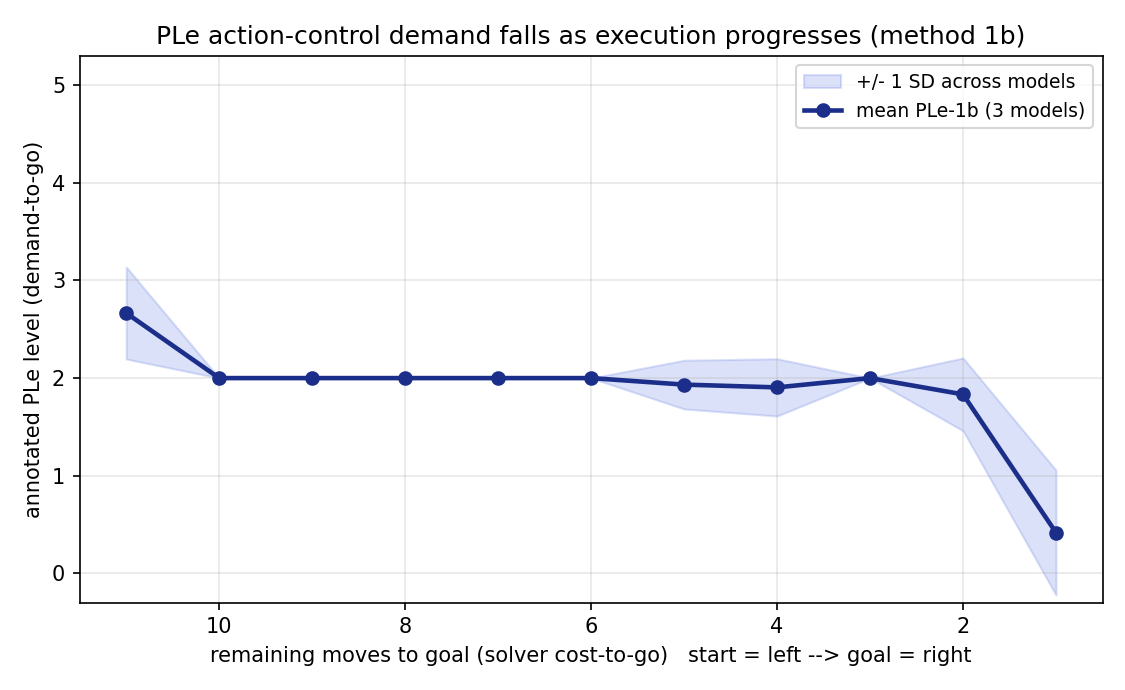
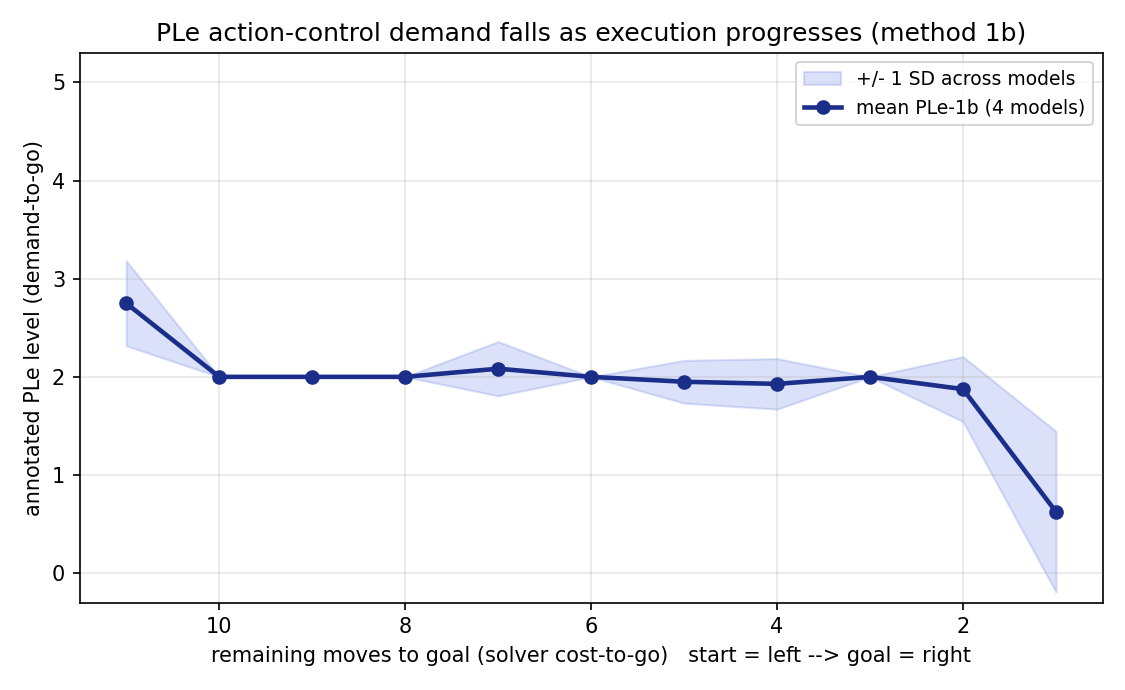
Add GPT-5 to the PLp/PLe judge panel (first cross-family check)
PLp v11 (43 states) and PLe 1b/2, annotated by GPT-5 with the existing
frozen prompts via the memory prompt runner. Findings, canonical output in
labs/rivercross/results/{plp,ple}_cross_family.txt:
- Ordering transfers: within-1 agreement 100% (PLp) / 90-100% (PLe),
  demand-to-go gradient reproduced (PLp Spearman +0.61 vs solver horizon).
- The level-0 anchor does not: on all 12 states the Claude panel
  unanimously labels 0 (dist_to_goal=1), GPT-5 gives 1; on PLe-1b, 5 of 6
  disagreements are Claude 0 vs GPT 2 on near-terminal states. QWK drops
  to 0.40-0.61 (PLp) / 0.53 (PLe-1b) vs 0.74-1.00 within-family.
- PLe method 2 has near-constant labels in both families (Claude all 1,
  GPT mostly 0): no discriminative variance, anchor flips across families.
- analyze_plp/analyze_ple: panel now includes gpt (and the previously
  ignored gemini-flash v10 labels); all-N line generalized.
- run_prompt_annotation.py: don't crash printing paths outside rivercross.
Follow-up recorded in todo.md: add a contrastive level-0 example to the
PLp/PLe rubrics ('single forced final move is 0').

diff --git a/labs/rivercross/ple/analyze_ple.py b/labs/rivercross/ple/analyze_ple.py
@@ -22,8 +22,8 @@ FIG = PILOT / "figures"
 sys.path.insert(0, str(PILOT))
 from rivercross import PuzzleSpec, solve  # noqa: E402
 
-MODELS = ["haiku", "sonnet", "opus"]
-COLORS = {"haiku": "#e07b39", "sonnet": "#3a7d44", "opus": "#3b5bdb"}
+MODELS = ["haiku", "sonnet", "opus", "gpt"]
+COLORS = {"haiku": "#e07b39", "sonnet": "#3a7d44", "opus": "#3b5bdb", "gpt": "#8e44ad"}
 SPECS = json.load(open(PILOT / "specs.json"))
 
 
@@ -31,9 +31,11 @@ def load(method):
     cols = {}
     for m in MODELS:
         p = HERE / "labels" / method / f"{m}_PLe.csv"
+        if not p.exists():
+            continue
         rows = list(csv.DictReader(p.open()))
         cols[m] = {r["custom_id"]: int(r["level"]) for r in rows}
-    ids = list(cols[MODELS[0]])
+    ids = list(cols[next(iter(cols))])
     return ids, cols
 
 
@@ -50,17 +52,18 @@ def qwk(a, b, K=6):
 
 def report(method):
     ids, cols = load(method)
-    arr = {m: np.array([cols[m][i] for i in ids]) for m in MODELS}
-    print(f"\n=== method {method}: {len(ids)} items ===")
-    for m in MODELS:
+    models = list(cols)
+    arr = {m: np.array([cols[m][i] for i in ids]) for m in models}
+    print(f"\n=== method {method}: {len(ids)} items | models: {', '.join(models)} ===")
+    for m in models:
         vc = {int(k): int(v) for k, v in zip(*np.unique(arr[m], return_counts=True))}
         print(f"  {m:7s} mean={arr[m].mean():.2f} dist={vc}")
-    for a, b in itertools.combinations(MODELS, 2):
+    for a, b in itertools.combinations(models, 2):
         exact = (arr[a] == arr[b]).mean() * 100
         w1 = (np.abs(arr[a] - arr[b]) <= 1).mean() * 100
         print(f"  {a:6s}-{b:6s} exact={exact:3.0f}% within1={w1:3.0f}% QWK={qwk(arr[a], arr[b]):.2f}")
-    all3 = np.mean([len({arr[m][k] for m in MODELS}) == 1 for k in range(len(ids))]) * 100
-    print(f"  all-3 identical: {all3:.0f}%")
+    all_same = np.mean([len({arr[m][k] for m in models}) == 1 for k in range(len(ids))]) * 100
+    print(f"  all-{len(models)} identical: {all_same:.0f}%")
     return ids, arr
 
 
@@ -83,20 +86,21 @@ def solver_dist_for_1b(ids):
 
 
 def plot_1b(ids, arr):
+    models = list(arr)
     dists = solver_dist_for_1b(ids)
     d = np.array([dists[i] for i in ids])
     print("\n  1b vs solver cost-to-go:")
-    for m in MODELS:
+    for m in models:
         rho, _ = spearmanr(arr[m], d)
         print(f"    {m:7s} Spearman(level, remaining-moves) = {rho:+.2f}")
     # pooled mean level by remaining distance
     xs = sorted(set(d))
-    mean = [np.mean([arr[m][k] for m in MODELS for k in range(len(ids)) if d[k] == x]) for x in xs]
-    sd = [np.std([arr[m][k] for m in MODELS for k in range(len(ids)) if d[k] == x]) for x in xs]
+    mean = [np.mean([arr[m][k] for m in models for k in range(len(ids)) if d[k] == x]) for x in xs]
+    sd = [np.std([arr[m][k] for m in models for k in range(len(ids)) if d[k] == x]) for x in xs]
     fig, ax = plt.subplots(figsize=(7.5, 4.6))
     ax.fill_between(xs, np.array(mean) - np.array(sd), np.array(mean) + np.array(sd),
                     alpha=0.18, color="#3b5bdb", label="+/- 1 SD across models")
-    ax.plot(xs, mean, "-o", color="#1b2f8a", lw=2.2, ms=6, label="mean PLe-1b (3 models)")
+    ax.plot(xs, mean, "-o", color="#1b2f8a", lw=2.2, ms=6, label=f"mean PLe-1b ({len(arr)} models)")
     ax.invert_xaxis()
     ax.set_xlabel("remaining moves to goal (solver cost-to-go)   start = left --> goal = right")
     ax.set_ylabel("annotated PLe level (demand-to-go)")

diff --git a/labs/rivercross/method1b/analyze_plp.py b/labs/rivercross/method1b/analyze_plp.py
@@ -22,8 +22,9 @@ from scipy.stats import spearmanr
 HERE = Path(__file__).resolve().parent
 PILOT = HERE.parent
 FIG = PILOT / "figures"
-MODELS = ["haiku", "sonnet", "opus"]
-COLORS = {"haiku": "#e07b39", "sonnet": "#3a7d44", "opus": "#3b5bdb"}
+MODELS = ["haiku", "sonnet", "opus", "gpt", "gemini-flash"]
+COLORS = {"haiku": "#e07b39", "sonnet": "#3a7d44", "opus": "#3b5bdb",
+          "gpt": "#8e44ad", "gemini-flash": "#7f8c8d"}
 GT = pd.read_csv(HERE / "ground_truth.csv").set_index("custom_id")
 
 
@@ -65,9 +66,9 @@ def report(df, tag):
             exact = (df[a] == df[b]).mean() * 100
             w1 = (abs(df[a] - df[b]) <= 1).mean() * 100
             print(f"  {a:6s}-{b:6s}  exact={exact:3.0f}%  within1={w1:3.0f}%  QWK={qwk(df[a], df[b]):.2f}")
-    if len(present) == 3:
-        all3 = (df[present].nunique(axis=1) == 1).mean() * 100
-        print(f"all-3 identical: {all3:.0f}%")
+    if len(present) >= 3:
+        all_same = (df[present].nunique(axis=1) == 1).mean() * 100
+        print(f"all-{len(present)} identical: {all_same:.0f}%")
     print("vs solver remaining horizon (dist_to_goal):")
     for m in present:
         rho, _ = spearmanr(df[m], df["dist"])

diff --git a/labs/rivercross/memory/run_prompt_annotation.py b/labs/rivercross/memory/run_prompt_annotation.py
@@ -110,8 +110,15 @@ def main() -> None:
     raw_path.write_text(content, encoding='utf-8')
     df = parse_csv_response(content)
     df.to_csv(csv_path, index=False)
-    print(f'wrote raw response: {raw_path.relative_to(RIVERCROSS)}')
-    print(f'wrote parsed labels: {csv_path.relative_to(RIVERCROSS)} ({len(df)} rows)')
+    def display(path: Path) -> Path:
+        resolved = path.resolve()
+        try:
+            return resolved.relative_to(RIVERCROSS)
+        except ValueError:
+            return resolved
+
+    print(f'wrote raw response: {display(raw_path)}')
+    print(f'wrote parsed labels: {display(csv_path)} ({len(df)} rows)')
 
 if __name__ == '__main__':
     main()

diff --git a/todo.md b/todo.md
@@ -47,6 +47,12 @@ local branch `agentic`; private staging snapshot `PabloAMC/ADeLe-AIEvaluation`.
       partly behavioural (propensity-like). Methodological call.
 - [ ] Tighten **boundary overlap** between `MSe` (environmental), `MSc` (communication)
       and mind-modelling so annotators don't double-count (add contrastive examples).
+- [ ] **PLp/PLe level-0 anchor does not transfer across model families** (GPT-5
+      cross-check, `labs/rivercross/results/{plp,ple}_cross_family.txt`): on every
+      state the Claude panel unanimously calls 0 (dist_to_goal=1 / near-terminal),
+      GPT-5 assigns 1 (PLp) or 2 (PLe-1b); within-1 stays 100%/90% and the
+      demand-to-go gradient replicates. Add a contrastive level-0 example ("a single
+      forced or immediately obvious final move is 0") to both rubrics/prompts.
 
 ## Open decisions (team / Pablo)
 - [ ] **Code reconciliation** Doc↔Sheet (e.g. our `MSe/MSc/ECc` = Sheet `MSs/MSp/EXb`).
